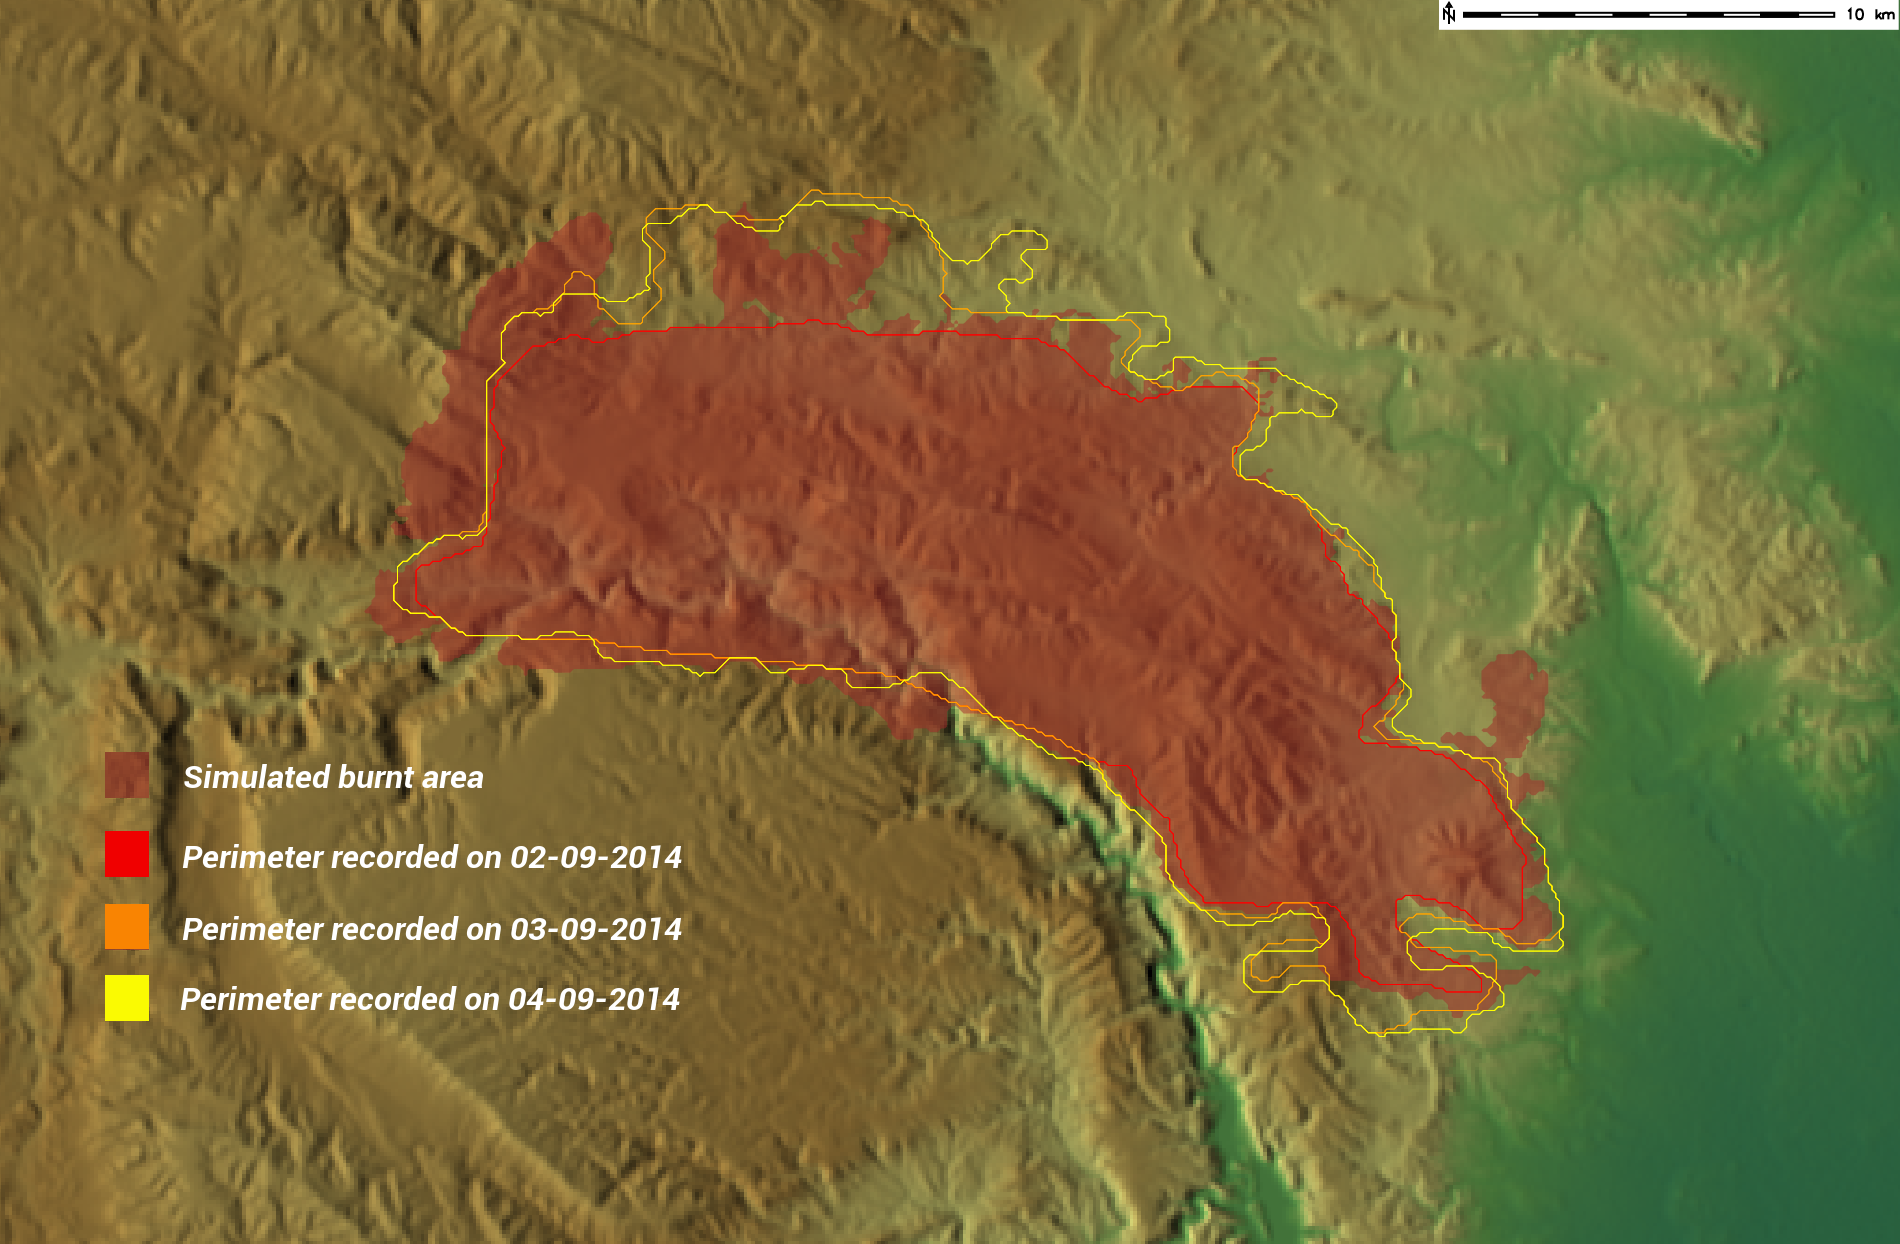
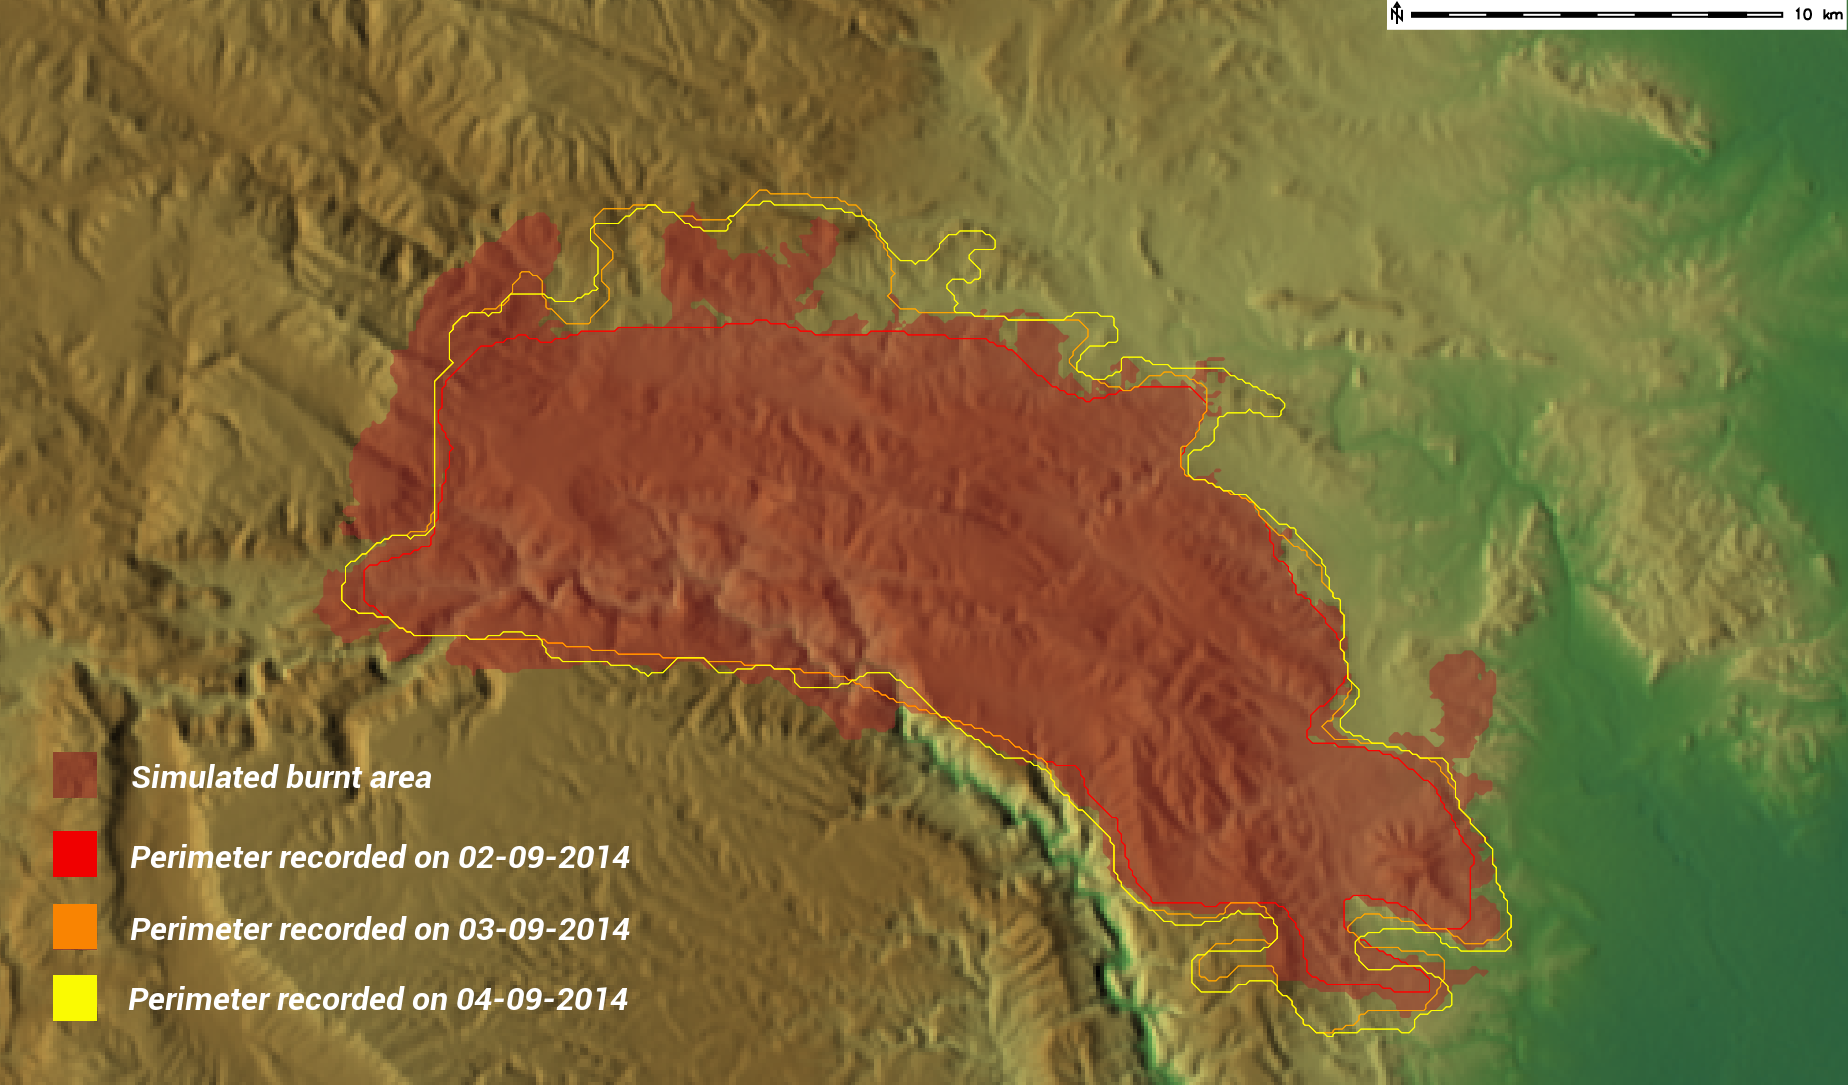
2015_EGU_G7_PeerReview_SciPlatform poster: better layout for fire fig + caption
git-svn-id: https://svn.osgeo.org/grass/grass-promo@64964 15284696-431f-4ddb-bdfa-cd5b030d7da7

diff --git a/grassposter/2015_EGU_G7_PeerReview_SciPlatform/poster.tex b/grassposter/2015_EGU_G7_PeerReview_SciPlatform/poster.tex
@@ -209,16 +209,18 @@ tested and recently adapted to European fuel types (Rodriguez-Aseretto et al.,
 2013~\cite{rodriguez2013data}; de Rigo et al., 2013~\cite{derigo2013architecture};
 Di Leo et al., 2013~\cite{2013_DiLeo_etAl}).
 
-\begin{minipage}{0.5\linewidth}
-\includegraphics{fire}
-Wildfire simulation in Tangible Landscape environment
-\end{minipage}
+\vspace*{-1cm}
 
 \begin{minipage}{0.5\linewidth}
+\includegraphics[width=\textwidth]{fire}
+Wildfire simulation in Tangible Landscape environment
+\end{minipage}
+~
+\begin{minipage}{0.5\linewidth}
 \includegraphics[width=\textwidth]{fire_valencia_040914}
-The event in the figure refers to a major wildfire occurred near Valencia on June 28th 2012 and 
-under control on July 4th. The actual perimeters recorded by the JRC-EFFIS team are shown, in 
-comparison with the simulated burnt area obtained in GRASS.
+Major wildfire event near Valencia (Spain) between June 28th and July 4th 2012.
+The actual perimeters recorded by JRC-EFFIS shown, in 
+comparison with burnt area simulated in GRASS GIS.
 \end{minipage}
 }
 
